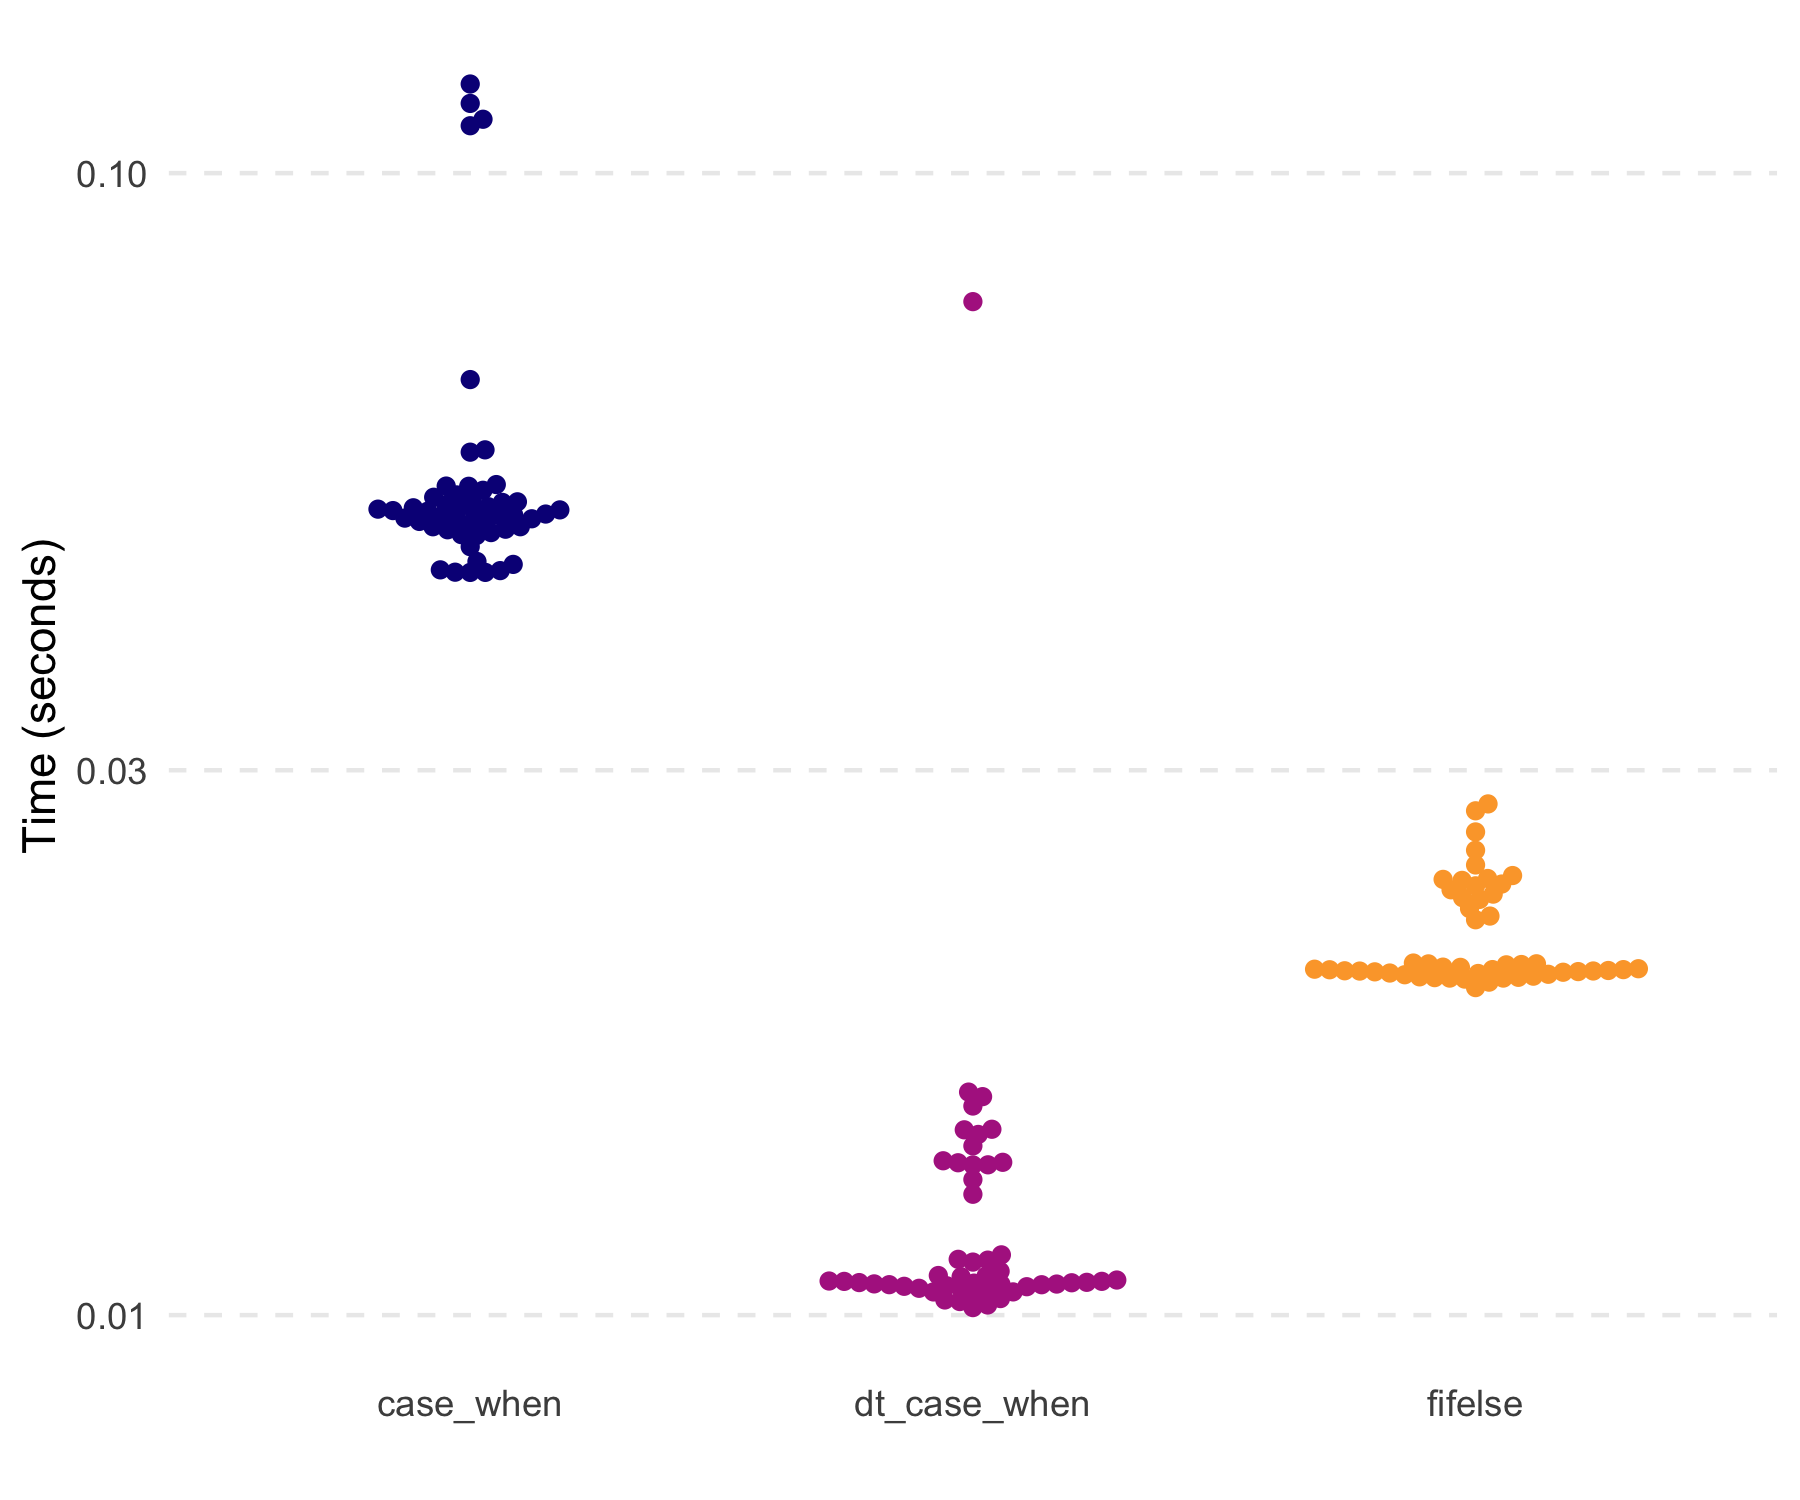
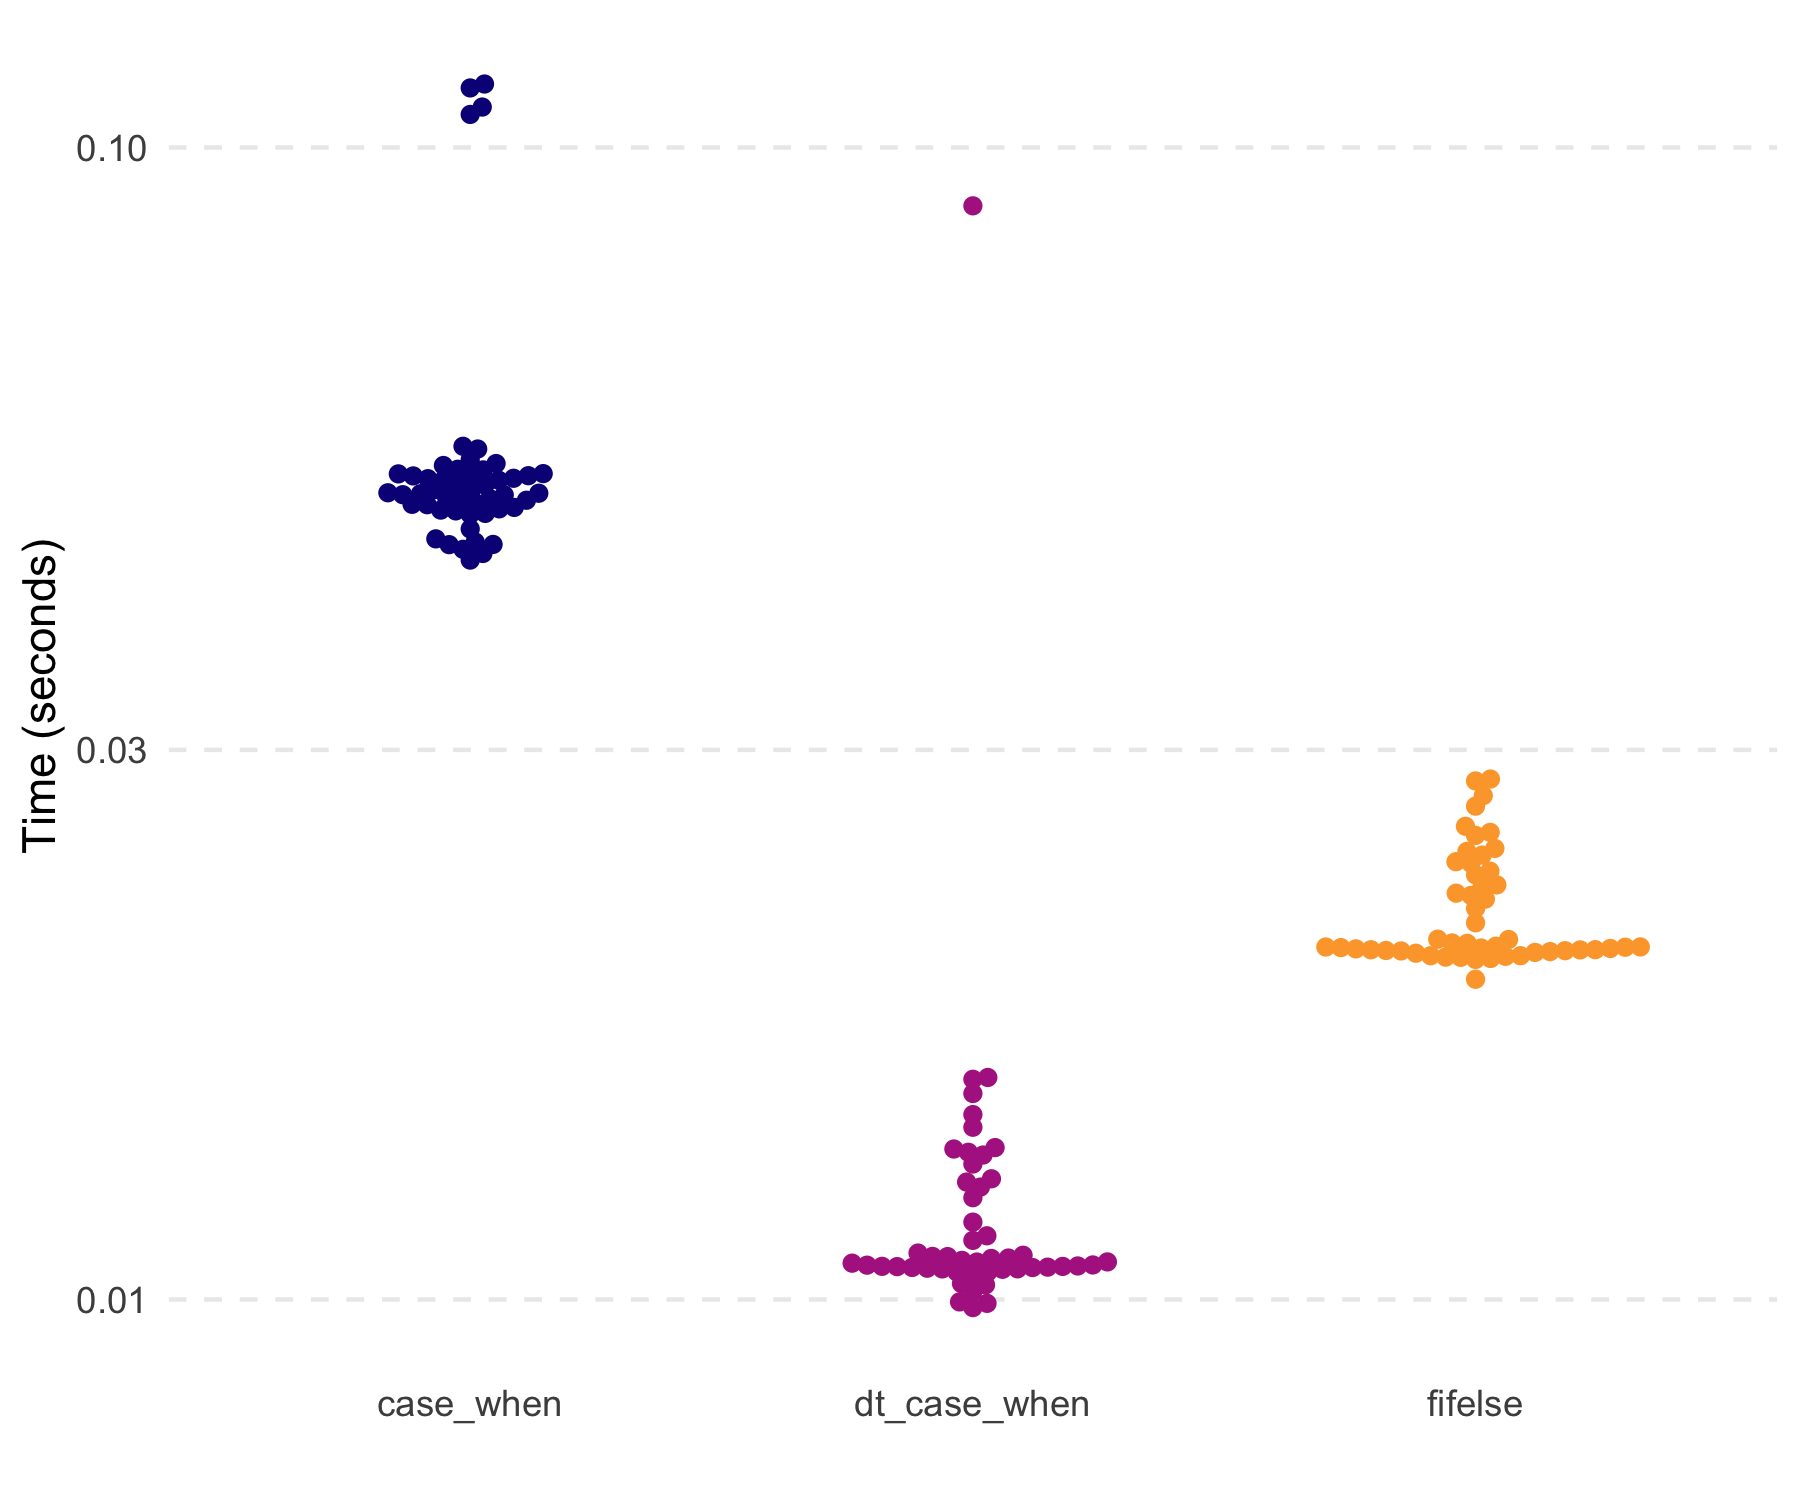
dev stuff and fixed link

diff --git a/README.md b/README.md
@@ -114,8 +114,8 @@ remotes::install_github("TysonStanley/tidyfast")
 ## Examples
 
 The initial versions of the nesting and unnesting functions were shown
-in a [preprint](https://psyarxiv.com/u8ekc/). Herein is shown some
-simple applications and the functions’ speed/efficiency.
+in a [preprint](https://osf.io/preprints/psyarxiv/u8ekc/). Herein is
+shown some simple applications and the functions’ speed/efficiency.
 
 ``` r
 library(tidyfast)
@@ -244,13 +244,13 @@ highlighted below. Notably, the timings are without the `nested1` and
     #> # A tibble: 2 × 3
     #>   expression   median mem_alloc
     #>   <chr>      <bch:tm> <bch:byt>
-    #> 1 dt_nest      1.16ms    2.88MB
-    #> 2 group_nest   1.94ms    5.12MB
+    #> 1 dt_nest      1.14ms    2.88MB
+    #> 2 group_nest   1.91ms    5.12MB
     #> # A tibble: 2 × 3
     #>   expression   median mem_alloc
     #>   <chr>      <bch:tm> <bch:byt>
-    #> 1 dt_unnest    2.22ms   11.84MB
-    #> 2 unnest       2.38ms    5.96MB
+    #> 1 dt_unnest    2.08ms   11.84MB
+    #> 2 unnest       2.33ms    5.96MB
 
 ## Pivoting
 
@@ -325,10 +325,10 @@ But let’s compare some basic speed and efficiency. Because of the
     #> # A tibble: 4 × 3
     #>   expression        median mem_alloc
     #>   <chr>           <bch:tm> <bch:byt>
-    #> 1 dt_pivot_longer 360.92µs 1001.23KB
-    #> 2 pivot_longer      1.93ms    1.73MB
-    #> 3 dt_pivot_wider    5.62ms    1.99MB
-    #> 4 pivot_wider       3.96ms    2.71MB
+    #> 1 dt_pivot_longer 359.98µs 1001.23KB
+    #> 2 pivot_longer      1.94ms    1.73MB
+    #> 3 dt_pivot_wider     5.8ms    1.99MB
+    #> 4 pivot_wider       3.87ms    2.71MB
 
 ### If Else
 
@@ -377,9 +377,9 @@ built on `data.table::fifelse()`.
     #> # A tibble: 3 × 3
     #>   expression     median mem_alloc
     #>   <chr>        <bch:tm> <bch:byt>
-    #> 1 case_when      44.9ms    72.5MB
-    #> 2 dt_case_when   10.6ms    19.1MB
-    #> 3 fifelse          20ms    34.3MB
+    #> 1 case_when      45.2ms    72.5MB
+    #> 2 dt_case_when   10.7ms    19.1MB
+    #> 3 fifelse        20.1ms    34.3MB
 
 ## Fill
 
@@ -492,8 +492,8 @@ marks3 <-
     #> # A tibble: 2 × 3
     #>   expression                                    median mem_alloc
     #>   <bch:expr>                                  <bch:tm> <bch:byt>
-    #> 1 tidyr::fill(dplyr::group_by(df3, id), x, y)   15.9ms    46.4MB
-    #> 2 tidyfast::dt_fill(dt3, x, y, id = list(id))   12.7ms    17.6MB
+    #> 1 tidyr::fill(dplyr::group_by(df3, id), x, y)   15.4ms    46.4MB
+    #> 2 tidyfast::dt_fill(dt3, x, y, id = list(id))   12.4ms    17.6MB
 
 ## Separate
 
@@ -536,9 +536,9 @@ efficient compared to `tidyr::separate()`.
     #> # A tibble: 3 × 3
     #>   expression            median mem_alloc
     #>   <chr>               <bch:tm> <bch:byt>
-    #> 1 separate               2.76s    3.89GB
-    #> 2 dt_separate          46.59ms   26.73MB
-    #> 3 dt_separate-mutable  46.47ms   26.72MB
+    #> 1 separate               2.79s    3.89GB
+    #> 2 dt_separate          47.31ms   26.73MB
+    #> 3 dt_separate-mutable  46.85ms   26.72MB
 
 ## Count and Uncount
 

diff --git a/cran-comments.md b/cran-comments.md
@@ -1,12 +1,11 @@
 ## Test environments
 
-* local OS X install, R 4.1.0
-* ubuntu 14.04 (on travis-ci)
-* win-builder (devel and release)
-* r-hub: Ubuntu Linux 16.04 LTS, R-release, GCC; Fedora Linux, R-devel, clang, gfortran; Debian Linux, R-devel, GCC ASAN/UBSAN; Windows Server 2008 R2 SP1, R-devel, 32/64 bit
+* local OS X install (release)
+* GitHub actions (windows, MacOS, ubuntu)
+* win-builder (devel, release, old release)
 
 ## R CMD check results
 
 0 errors | 0 warnings | 0 note
 
-Updating maintainer email and minor updates.
+Updating maintainer email and minor updates (including fix for the soon to be released data.table 1.15.0).
